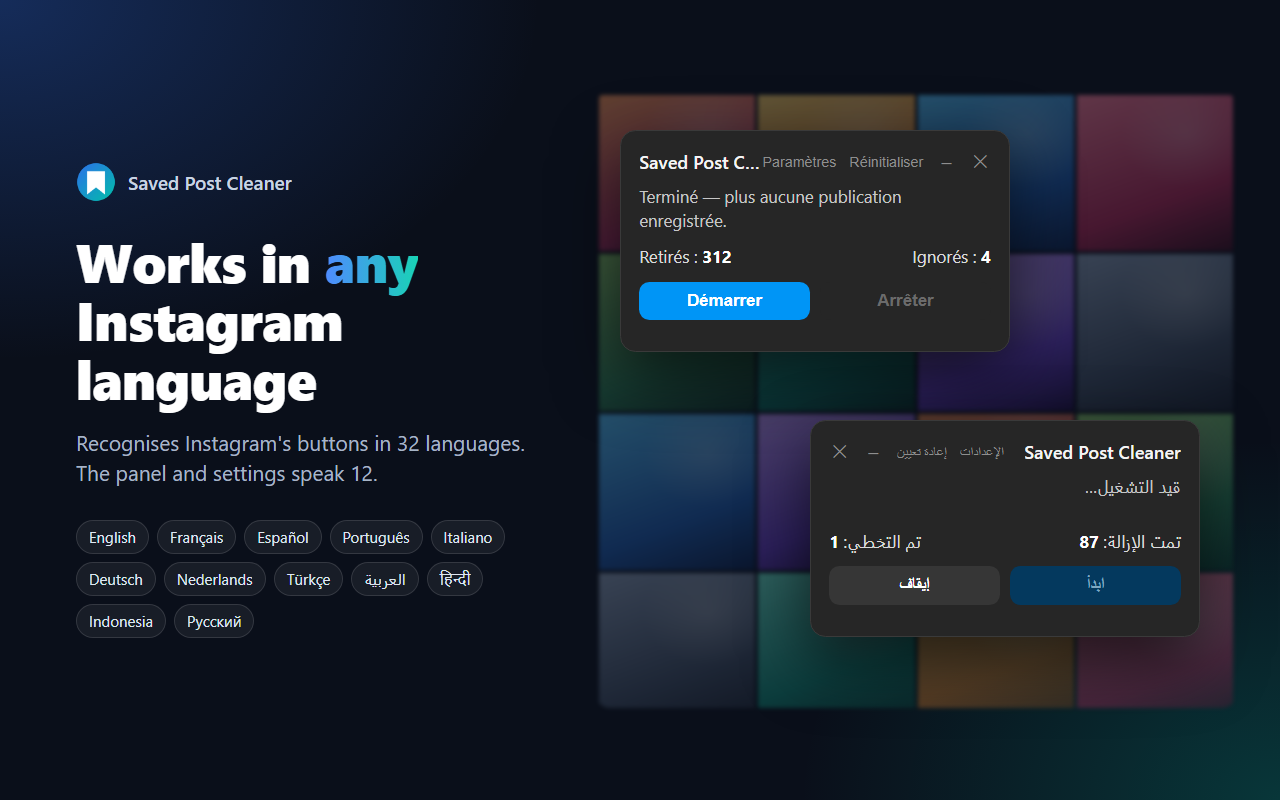
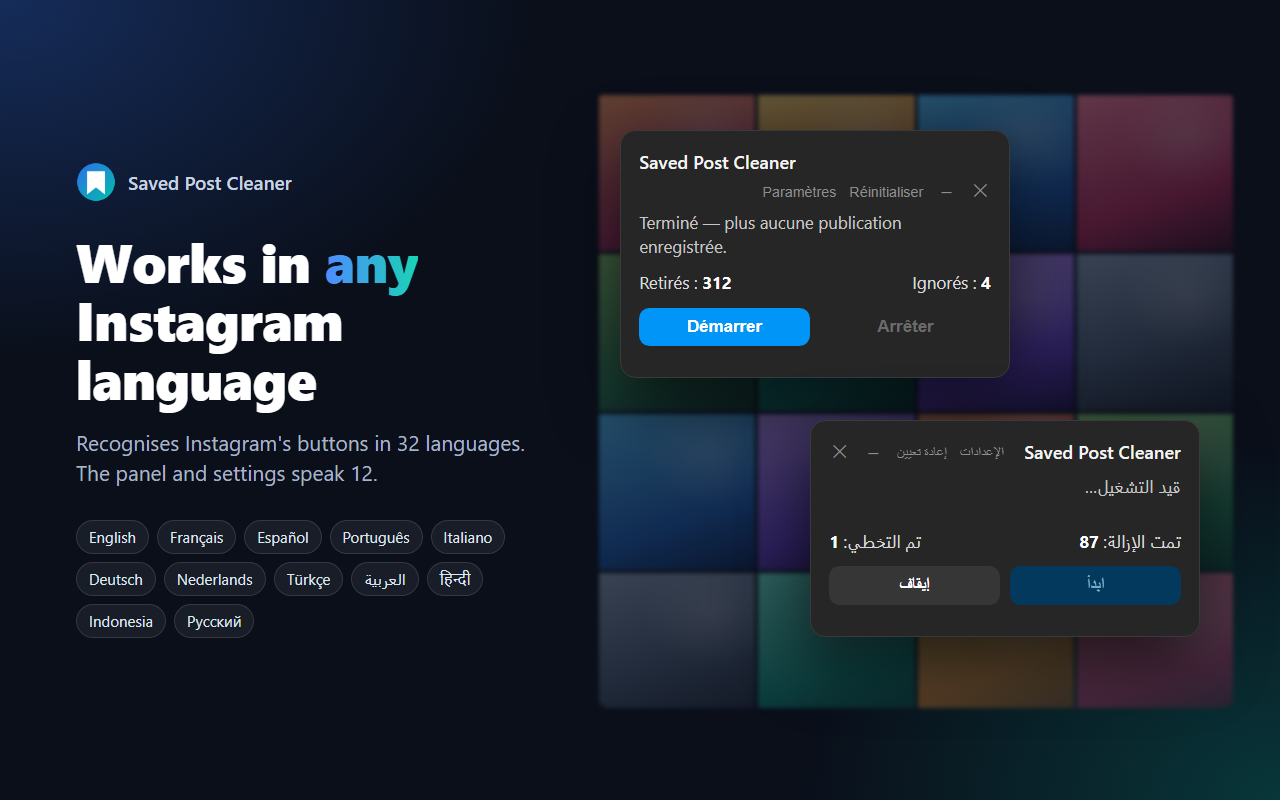
Panel header wraps instead of truncating the title
The title yielded space to the header buttons, so German showed
"Saved Post C..." and French fit with zero pixels to spare (truncating at
other zoom levels or fonts). Neither side shrinks now; when they don't fit
on one line the buttons wrap to a second, right-aligned line, with a 10px
gap so the title no longer touches "Settings".

Adds store/store-assets/v2/header-check.html, which measures the real
header in all 12 UI languages, and re-renders the screenshots.

Changed region(s): [[0.5, 0.1875, 0.8125, 0.5]]

diff --git a/store/store-assets/v2/header-check.html b/store/store-assets/v2/header-check.html
@@ -1,0 +1,48 @@
+<!doctype html>
+<html>
+<head>
+<meta charset="utf-8" />
+<title>Panel header fit check</title>
+<link rel="stylesheet" href="../../../src/overlay.css" />
+<style>
+  body { margin: 0; background: #000; font-family: "Segoe UI", sans-serif; }
+  .row { position: relative; height: 70px; }
+  .row #igsc-panel { position: absolute; top: 4px; left: 4px; bottom: auto; right: auto; }
+</style>
+</head>
+<body>
+<div id="rows"></div>
+<pre id="result"></pre>
+<script src="../../../src/config.js"></script>
+<script src="../../../src/i18n.js"></script>
+<script>
+  // Renders the real panel header (same markup as content.js createPanel)
+  // in every shipped UI language and reports whether the title is cut off.
+  const out = [];
+  for (const zoom of [1, 1.3, 1.5]) for (const lang of Object.keys(IGSC_MESSAGES)) {
+    const m = IGSC_MESSAGES[lang];
+    const row = document.createElement('div');
+    row.className = 'row'; row.style.zoom = zoom; row.style.height = 'auto'; row.style.minHeight = '90px';
+    row.innerHTML = `
+      <div id="igsc-panel" lang="${lang}" dir="${igscDirFor(lang)}">
+        <div class="igsc-header">
+          <span class="igsc-title">Saved Post Cleaner<b id="igsc-min-count"></b></span>
+          <span class="igsc-header-actions">
+            <button class="igsc-reset-btn">${m.panelSettings}</button>
+            <button class="igsc-reset-btn">${m.panelReset}</button>
+            <button class="igsc-reset-btn igsc-icon-btn">–</button>
+            <button class="igsc-reset-btn igsc-icon-btn">✕</button>
+          </span>
+        </div>
+      </div>`;
+    document.getElementById('rows').appendChild(row);
+    const title = row.querySelector('.igsc-title');
+    const header = row.querySelector('.igsc-header');
+    const cut = title.scrollWidth > title.clientWidth + 1;
+    const wrapped = Math.round(header.getBoundingClientRect().height) > 24 * zoom;
+    out.push(`x${zoom} ${lang.padEnd(4)} ${wrapped ? "wrapped" : "one-line"} ${cut ? 'TRUNCATED' : 'ok       '} title ${title.clientWidth}/${title.scrollWidth}px  header ${Math.round(header.getBoundingClientRect().height)}px  [${m.panelSettings} | ${m.panelReset}]`);
+  }
+  document.getElementById('result').textContent = out.join('\n');
+</script>
+</body>
+</html>

diff --git a/src/overlay.css b/src/overlay.css
@@ -228,19 +228,29 @@
   font-weight: 700;
 }
 
-/* Four controls now share the header with the title. The title yields
-   first (it's the least useful pixel there), and the actions never shrink,
-   so the buttons keep their click targets instead of collapsing to slivers
-   in the longer-worded languages. */
+/* Four controls share the header with the title. Neither side shrinks:
+   when they don't fit on one line (German today; French with no room to
+   spare; any longer-worded language later), the actions wrap onto a second
+   line, right-aligned, instead of eating into the title. Previously the
+   title yielded and showed "Saved Post C…" in German. The ellipsis stays
+   only as a last resort for a title wider than the whole panel. */
+.igsc-header {
+  flex-wrap: wrap;
+  column-gap: 10px;
+  row-gap: 6px;
+}
+
 .igsc-title {
+  flex: none;
+  max-width: 100%;
   white-space: nowrap;
   overflow: hidden;
   text-overflow: ellipsis;
-  min-width: 0;
 }
 
 .igsc-header-actions {
   flex: none;
+  margin-inline-start: auto;
 }
 
 /* The two icon buttons (minimize, close) sit next to two text buttons in a
